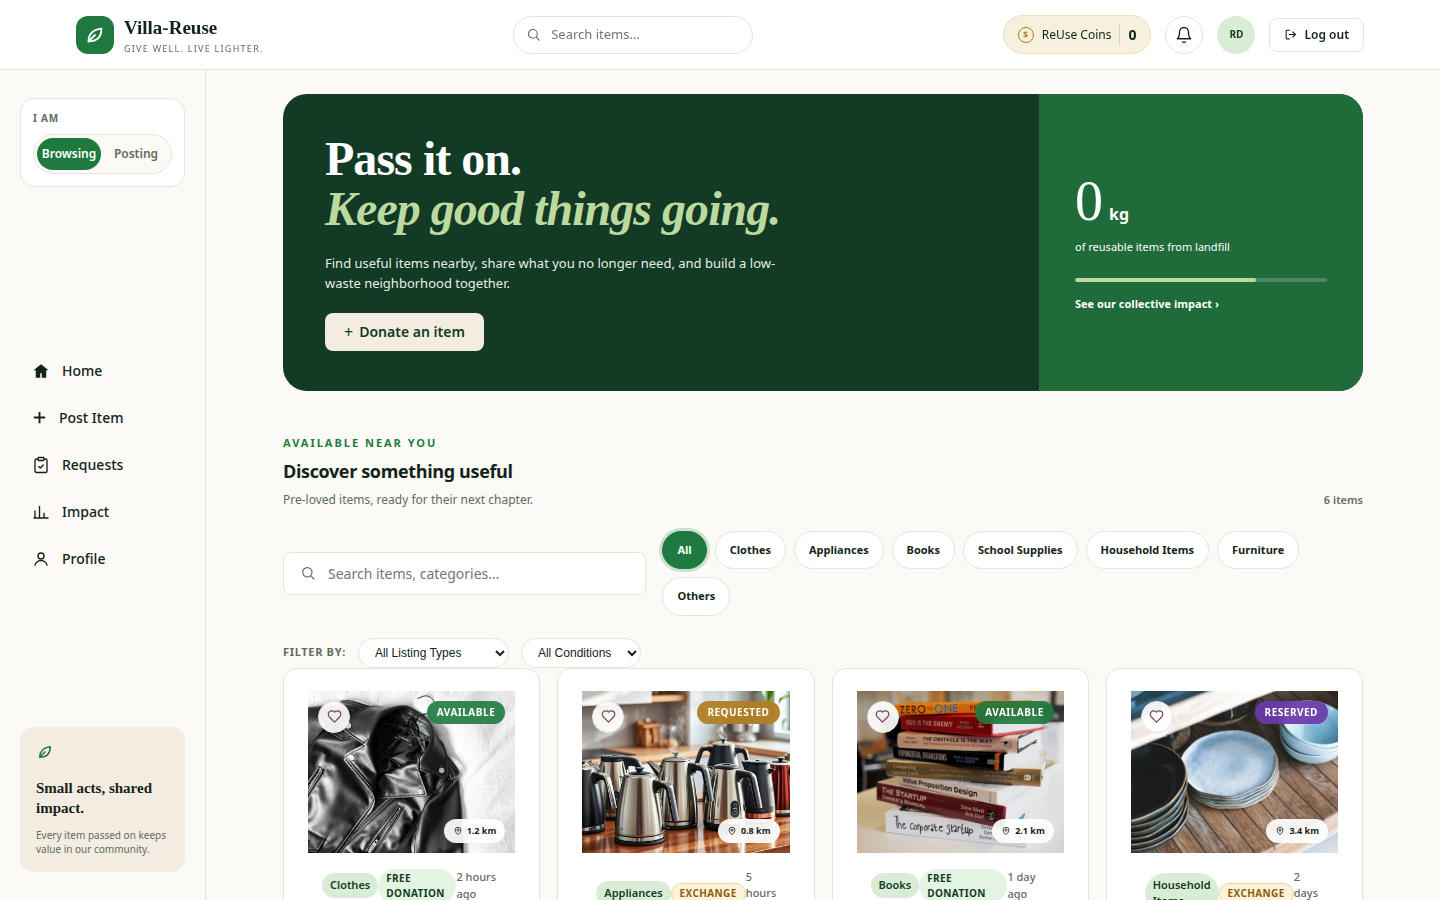
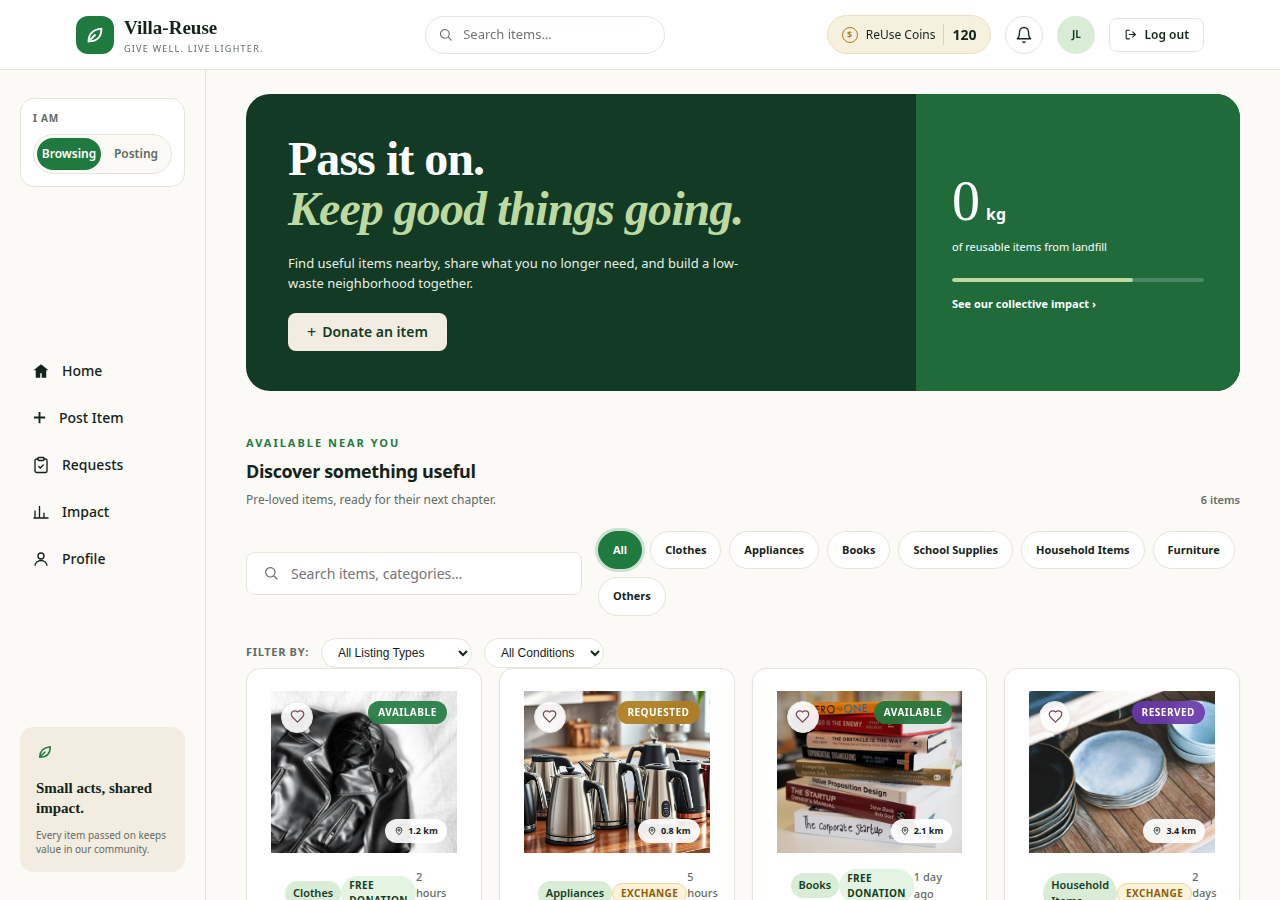
Color-code browsing and posting modes

diff --git a/css/components/mode-switch.css b/css/components/mode-switch.css
@@ -42,9 +42,17 @@
 
 .mode-switch__btn:hover { color: var(--c-text); }
 
-.mode-switch__btn--active {
+/* The two modes are colour-coded with the palette's own colours:
+   Browsing is the theme green, Posting is the theme gold. */
+.mode-switch__btn--active[data-mode="browsing"] {
   background: var(--c-green-600);
   color: #fff;
 }
 
-.mode-switch__btn--active:hover { color: #fff; }
+.mode-switch__btn--active[data-mode="posting"] {
+  background: var(--c-gold);
+  color: var(--c-text);
+}
+
+.mode-switch__btn--active[data-mode="browsing"]:hover { color: #fff; }
+.mode-switch__btn--active[data-mode="posting"]:hover { color: var(--c-text); }

diff --git a/src/main.ts b/src/main.ts
@@ -55,7 +55,10 @@ async function bootstrap(): Promise<void> {
         ? "Items you posted for the community — tap one to review it."
         : "Pre-loved items, ready for their next chapter.";
     }
-    if (feedEyebrow) feedEyebrow.textContent = posting ? "POSTED BY YOU" : "AVAILABLE NEAR YOU";
+    if (feedEyebrow) {
+      feedEyebrow.textContent = posting ? "POSTED BY YOU" : "AVAILABLE NEAR YOU";
+      feedEyebrow.classList.toggle("eyebrow--posting", posting);
+    }
     const heroBtn = document.getElementById("donate-btn");
     if (heroBtn) {
       heroBtn.innerHTML = posting

diff --git a/css/components/section-heading.css b/css/components/section-heading.css
@@ -8,6 +8,9 @@
   color: var(--c-green-600);
 }
 
+/* Posting mode tints the feed eyebrow gold, matching the mode switch. */
+.eyebrow--posting { color: var(--c-gold); }
+
 .section-head {
   display: flex;
   align-items: flex-end;

diff --git a/CHANGELOG.md b/CHANGELOG.md
@@ -368,6 +368,21 @@ page).
   switch is how the app knows what you came to do — the same split
   Facebook Marketplace makes between buying and selling.
 
+### Colour-coded modes (improved, Round 3)
+- **What changed:** The two modes now have their own colours, taken
+  from the palette the site already uses. In the sidebar switch,
+  the selected *Browsing* button is filled with the theme green
+  (`--c-green-600`), and the selected *Posting* button is filled
+  with the theme gold (`--c-gold`). The small heading above the
+  Home feed follows the same code: "AVAILABLE NEAR YOU" is green
+  in Browsing mode, and "POSTED BY YOU" is gold in Posting mode.
+  No new colours were introduced and nothing else in the palette
+  changed.
+- **Why:** A filled button alone was easy to miss. Colour makes
+  the current mode readable at a glance — green means you are
+  looking at the community's items, gold means you are looking
+  at your own postings.
+
 ### Search in the top bar (added, Round 3)
 - **What was added:** A search field in the signed-in top bar. On
   Home it is wired to the feed's existing search filter (typing in
